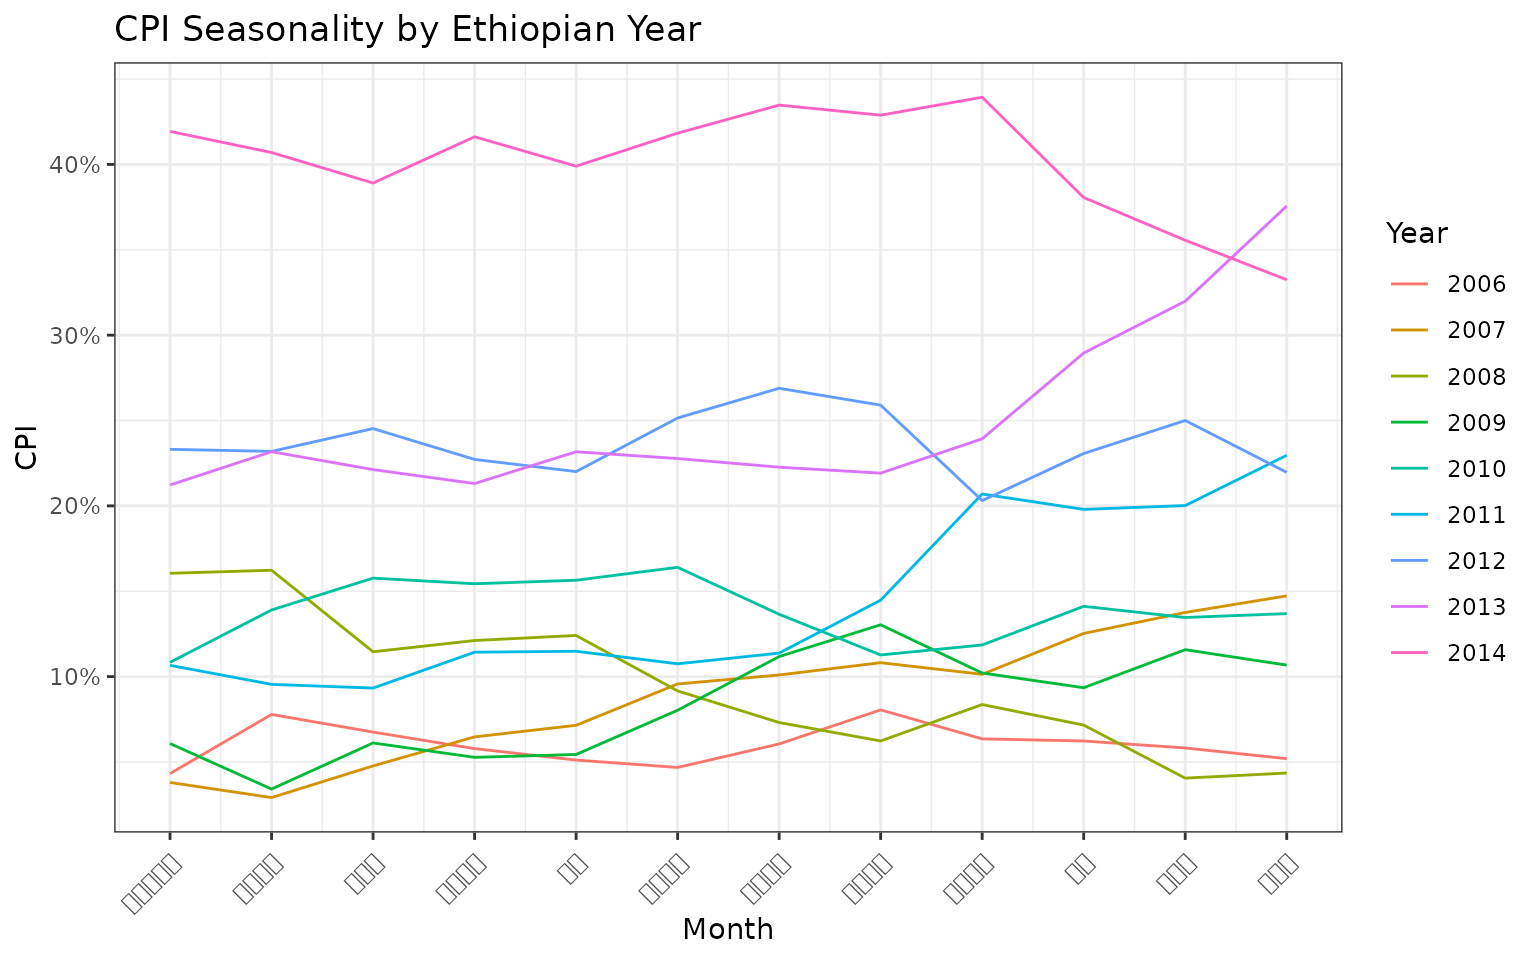
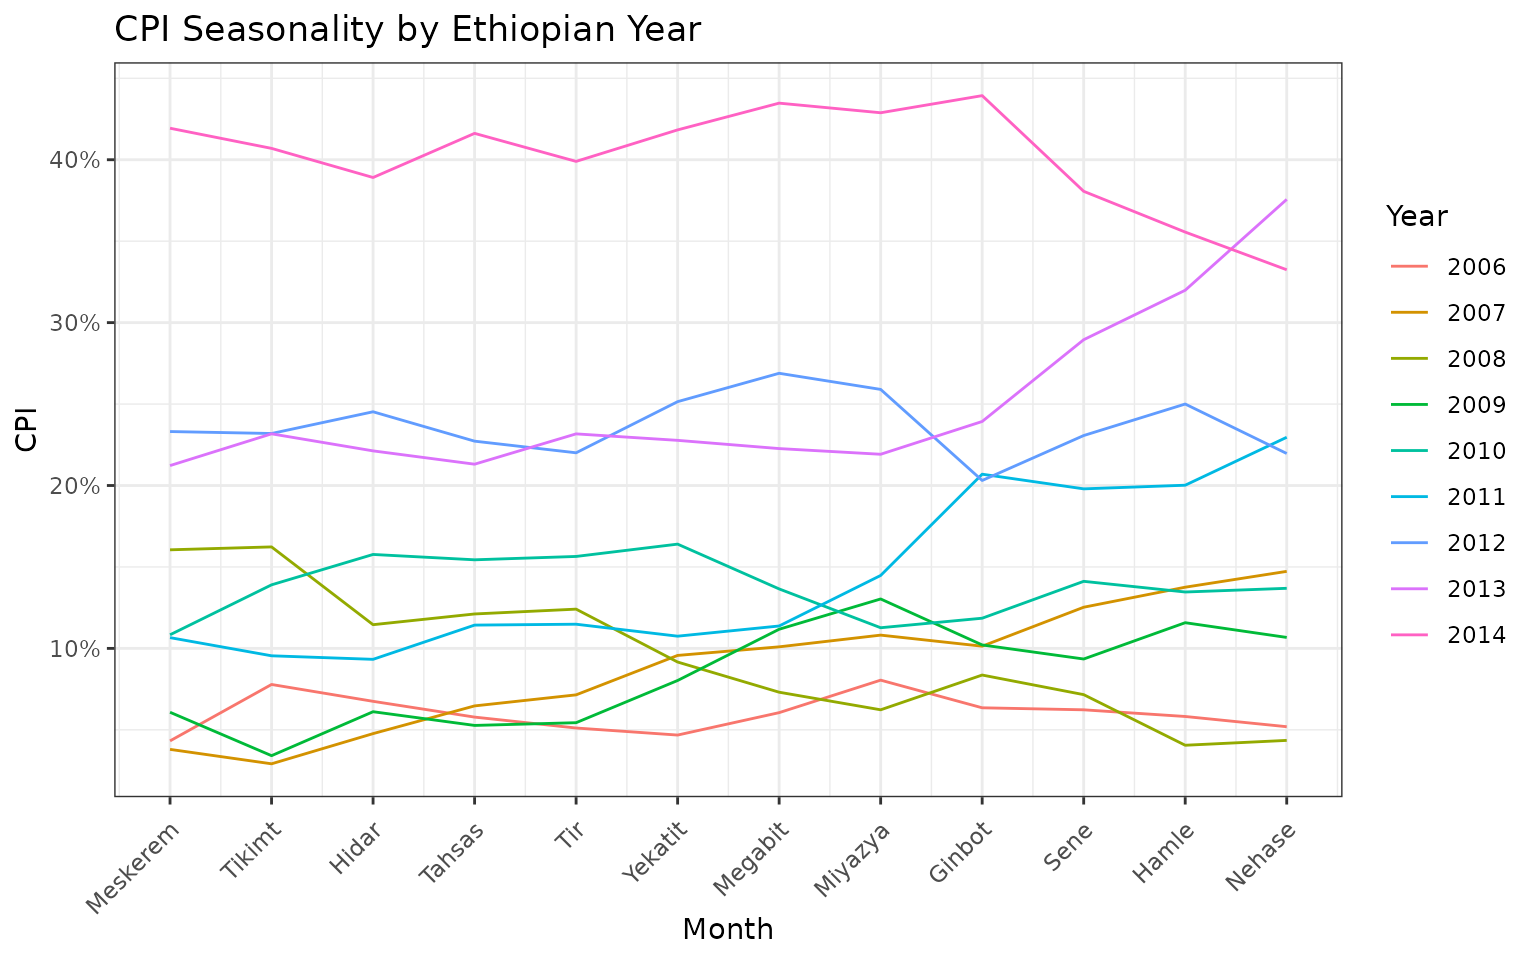
Deploying to gh-pages from @ GutUrago/ethiodate@58f3c342871215731adf7cd575f23bd87bc74bf4 🚀

diff --git a/articles/ggplot.html b/articles/ggplot.html
@@ -185,7 +185,7 @@ years:</p>
 <span>  <span class="fu"><a href="https://dplyr.tidyverse.org/reference/filter.html" class="external-link">filter</a></span><span class="op">(</span><span class="va">eyear</span> <span class="op">&gt;</span> <span class="fl">2005</span> <span class="op">&amp;</span> <span class="va">eyear</span> <span class="op">&lt;</span> <span class="fl">2015</span><span class="op">)</span> <span class="op">|&gt;</span> </span>
 <span>  <span class="fu"><a href="https://ggplot2.tidyverse.org/reference/ggplot.html" class="external-link">ggplot</a></span><span class="op">(</span><span class="fu"><a href="https://ggplot2.tidyverse.org/reference/aes.html" class="external-link">aes</a></span><span class="op">(</span>x <span class="op">=</span> <span class="va">emonth</span>, y <span class="op">=</span> <span class="va">cpi</span>, group <span class="op">=</span> <span class="va">eyear</span>, color <span class="op">=</span> <span class="fu"><a href="https://rdrr.io/r/base/factor.html" class="external-link">factor</a></span><span class="op">(</span><span class="va">eyear</span><span class="op">)</span><span class="op">)</span><span class="op">)</span> <span class="op">+</span></span>
 <span>  <span class="fu"><a href="https://ggplot2.tidyverse.org/reference/geom_path.html" class="external-link">geom_line</a></span><span class="op">(</span><span class="op">)</span> <span class="op">+</span></span>
-<span>  <span class="fu"><a href="https://ggplot2.tidyverse.org/reference/scale_continuous.html" class="external-link">scale_x_continuous</a></span><span class="op">(</span>breaks <span class="op">=</span> <span class="fl">1</span><span class="op">:</span><span class="fl">13</span>, labels <span class="op">=</span> <span class="fu"><a href="../reference/eth_show.html">eth_show</a></span><span class="op">(</span>lang <span class="op">=</span> <span class="st">"amh"</span><span class="op">)</span><span class="op">)</span> <span class="op">+</span></span>
+<span>  <span class="fu"><a href="https://ggplot2.tidyverse.org/reference/scale_continuous.html" class="external-link">scale_x_continuous</a></span><span class="op">(</span>breaks <span class="op">=</span> <span class="fl">1</span><span class="op">:</span><span class="fl">13</span>, labels <span class="op">=</span> <span class="fu"><a href="../reference/eth_show.html">eth_show</a></span><span class="op">(</span>lang <span class="op">=</span> <span class="st">"lat"</span><span class="op">)</span><span class="op">)</span> <span class="op">+</span></span>
 <span>  <span class="fu"><a href="https://ggplot2.tidyverse.org/reference/scale_continuous.html" class="external-link">scale_y_continuous</a></span><span class="op">(</span>labels <span class="op">=</span> <span class="fu">scales</span><span class="fu">::</span><span class="fu"><a href="https://scales.r-lib.org/reference/label_percent.html" class="external-link">label_percent</a></span><span class="op">(</span>scale <span class="op">=</span> <span class="fl">1</span><span class="op">)</span><span class="op">)</span> <span class="op">+</span></span>
 <span>  <span class="fu"><a href="https://ggplot2.tidyverse.org/reference/labs.html" class="external-link">labs</a></span><span class="op">(</span>title <span class="op">=</span> <span class="st">"CPI Seasonality by Ethiopian Year"</span>,</span>
 <span>       x <span class="op">=</span> <span class="st">"Month"</span>, y <span class="op">=</span> <span class="st">"CPI"</span>, color <span class="op">=</span> <span class="st">"Year"</span><span class="op">)</span> <span class="op">+</span></span>
@@ -208,7 +208,7 @@ patterns:</p>
 <span>  <span class="fu"><a href="https://ggplot2.tidyverse.org/reference/ggplot.html" class="external-link">ggplot</a></span><span class="op">(</span><span class="fu"><a href="https://ggplot2.tidyverse.org/reference/aes.html" class="external-link">aes</a></span><span class="op">(</span>x <span class="op">=</span> <span class="fu"><a href="https://rdrr.io/r/base/factor.html" class="external-link">factor</a></span><span class="op">(</span><span class="va">emonth</span><span class="op">)</span>, y <span class="op">=</span> <span class="fu"><a href="https://rdrr.io/r/base/factor.html" class="external-link">factor</a></span><span class="op">(</span><span class="va">eyear</span><span class="op">)</span>, fill <span class="op">=</span> <span class="va">cpi</span><span class="op">)</span><span class="op">)</span> <span class="op">+</span></span>
 <span>  <span class="fu"><a href="https://ggplot2.tidyverse.org/reference/geom_tile.html" class="external-link">geom_tile</a></span><span class="op">(</span>color <span class="op">=</span> <span class="st">"white"</span><span class="op">)</span> <span class="op">+</span></span>
 <span>  <span class="fu"><a href="https://ggplot2.tidyverse.org/reference/scale_viridis.html" class="external-link">scale_fill_viridis_c</a></span><span class="op">(</span>labels <span class="op">=</span> <span class="fu">scales</span><span class="fu">::</span><span class="fu"><a href="https://scales.r-lib.org/reference/label_percent.html" class="external-link">label_percent</a></span><span class="op">(</span>scale <span class="op">=</span> <span class="fl">1</span><span class="op">)</span><span class="op">)</span> <span class="op">+</span></span>
-<span>  <span class="fu"><a href="https://ggplot2.tidyverse.org/reference/scale_discrete.html" class="external-link">scale_x_discrete</a></span><span class="op">(</span>labels <span class="op">=</span> <span class="fu"><a href="../reference/eth_show.html">eth_show</a></span><span class="op">(</span><span class="st">"%b"</span>, <span class="st">"amh"</span><span class="op">)</span><span class="op">)</span> <span class="op">+</span></span>
+<span>  <span class="fu"><a href="https://ggplot2.tidyverse.org/reference/scale_discrete.html" class="external-link">scale_x_discrete</a></span><span class="op">(</span>labels <span class="op">=</span> <span class="fu"><a href="../reference/eth_show.html">eth_show</a></span><span class="op">(</span><span class="st">"%b"</span>, <span class="st">"lat"</span><span class="op">)</span><span class="op">)</span> <span class="op">+</span></span>
 <span>  <span class="fu"><a href="https://ggplot2.tidyverse.org/reference/labs.html" class="external-link">labs</a></span><span class="op">(</span>title <span class="op">=</span> <span class="st">"Monthly CPI Heatmap"</span>,</span>
 <span>       x <span class="op">=</span> <span class="st">"Ethiopian Month"</span>, y <span class="op">=</span> <span class="st">"Ethiopian Year"</span>, fill <span class="op">=</span> <span class="st">"CPI"</span><span class="op">)</span> <span class="op">+</span></span>
 <span>  <span class="fu"><a href="https://ggplot2.tidyverse.org/reference/ggtheme.html" class="external-link">theme_bw</a></span><span class="op">(</span><span class="op">)</span></span></code></pre></div>

diff --git a/news/index.html b/news/index.html
@@ -58,10 +58,27 @@
     </div>
 
     <div class="section level2">
+<h2 class="pkg-version" data-toc-text="0.2.0" id="ethiodate-020">ethiodate 0.2.0<a class="anchor" aria-label="anchor" href="#ethiodate-020"></a></h2>
+<div class="section level3">
+<h3 id="new-features-0-2-0">New Features<a class="anchor" aria-label="anchor" href="#new-features-0-2-0"></a></h3>
+<ul><li>Added <code><a href="../reference/ethdate-ggplot.html">scale_x_ethdate()</a></code> and <code><a href="../reference/ethdate-ggplot.html">scale_y_ethdate()</a></code>
+</li>
+<li>Added <code><a href="../reference/ethdate-ggplot.html">eth_breaks()</a></code> and <code><a href="../reference/ethdate-ggplot.html">eth_labels()</a></code>
+</li>
+<li>Added <code><a href="../reference/eth_year.html">eth_quarter()</a></code>
+</li>
+</ul></div>
+<div class="section level3">
+<h3 id="enhancement-0-2-0">Enhancement<a class="anchor" aria-label="anchor" href="#enhancement-0-2-0"></a></h3>
+<ul><li>Defined <code><a href="https://rdrr.io/r/base/seq.html" class="external-link">seq()</a></code> and <code><a href="https://rdrr.io/r/base/cut.html" class="external-link">cut()</a></code> for <code>ethdate</code> class.</li>
+</ul></div>
+</div>
+    <div class="section level2">
 <h2 class="pkg-version" data-toc-text="0.1.0" id="ethiodate-010">ethiodate 0.1.0<a class="anchor" aria-label="anchor" href="#ethiodate-010"></a></h2><p class="text-muted">CRAN release: 2025-05-15</p>
 <ul><li>Initial.</li>
 </ul></div>
-  </main></div>
+  </main><aside class="col-md-3"><nav id="toc" aria-label="Table of contents"><h2>On this page</h2>
+    </nav></aside></div>
 
 
     <footer><div class="pkgdown-footer-left">

diff --git a/reference/eth_show.html b/reference/eth_show.html
@@ -113,7 +113,7 @@
 <span class="r-in"><span><span class="fu">eth_today</span><span class="op">(</span><span class="op">)</span></span></span>
 <span class="r-out co"><span class="r-pr">#&gt;</span> [1] "2017-09-20"</span>
 <span class="r-in"><span><span class="fu">eth_now</span><span class="op">(</span><span class="op">)</span></span></span>
-<span class="r-out co"><span class="r-pr">#&gt;</span> [1] "2017-09-20 06:46:58 PM"</span>
+<span class="r-out co"><span class="r-pr">#&gt;</span> [1] "2017-09-20 07:12:17 PM"</span>
 <span class="r-in"><span></span></span>
 </code></pre></div>
     </div>
